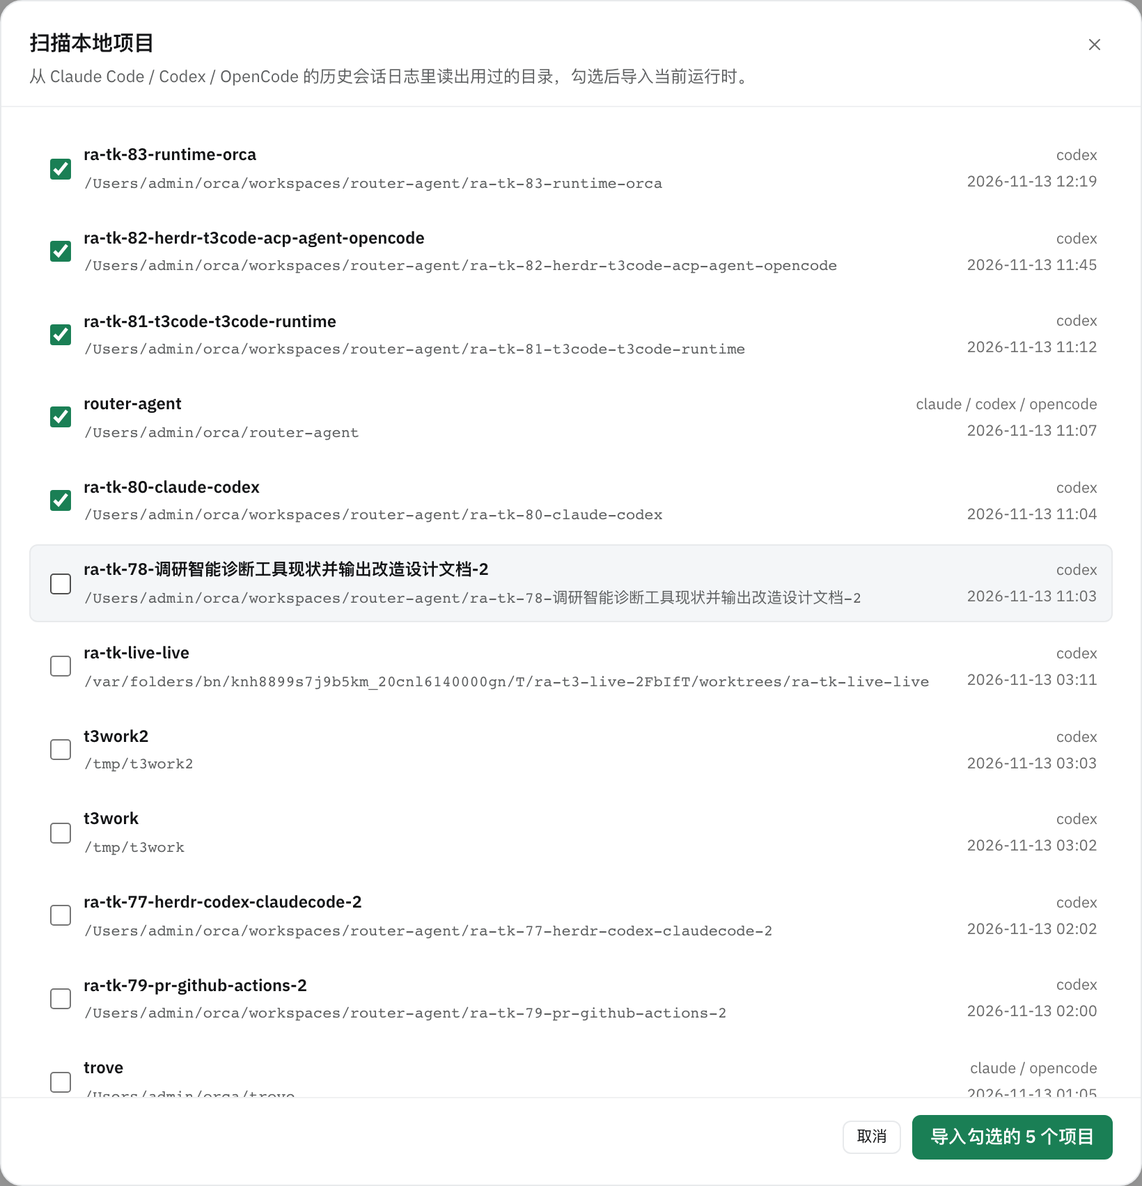
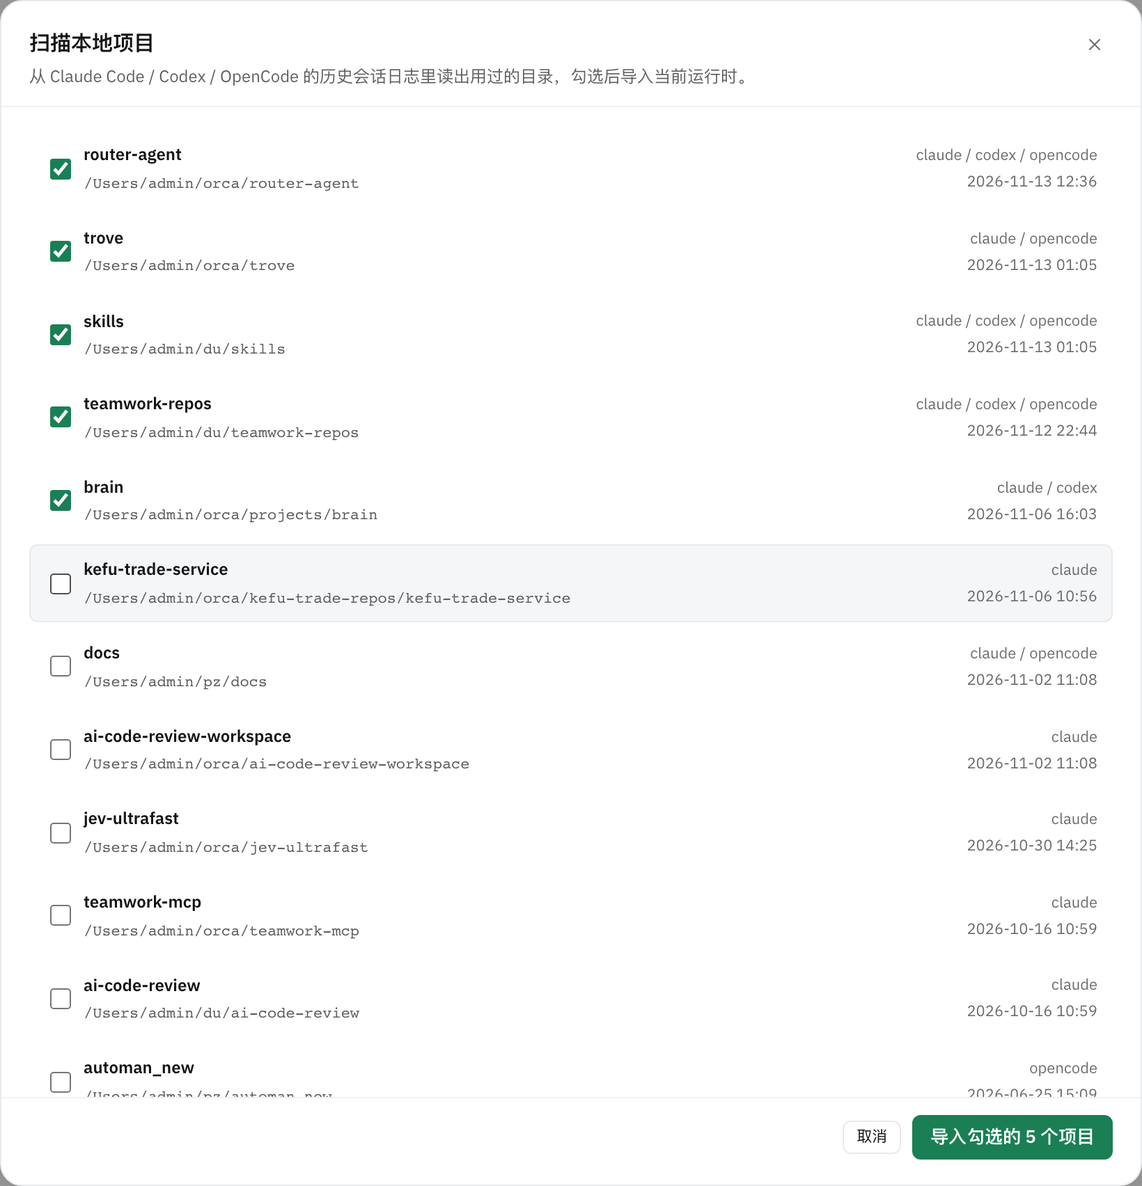
fix: 扫描本地项目收敛候选，worktree 归并到主仓库
- worktree（.git 是文件）归并到所属主仓库，worktree 自己不再出现在候选里
- 系统临时目录（/tmp、/var/folders 等）直接剔除
- 只保留 Git 仓库：面板只能加 Git 目录，非 Git 目录不进候选
- 同步删掉前端不再需要的「非 Git」标签与样式

diff --git a/tests/router/project-scan.test.ts b/tests/router/project-scan.test.ts
@@ -25,8 +25,20 @@ describe('扫描本地项目', () => {
     rmSync(root, { recursive: true, force: true })
   })
 
-  /** 造一个真实存在的项目目录。 */
+  /** 扫描参数：夹具建在系统临时目录里，所以默认关掉临时目录过滤。 */
+  function opts(overrides: Record<string, unknown> = {}): Record<string, unknown> {
+    return { claudeProjectsDir: claudeDir, codexHome, opencodeDataDir: opencodeDir, tempRoots: [], ...overrides }
+  }
+
+  /** 造一个真实存在的 Git 项目目录。 */
   function makeProject(name: string): string {
+    const path = join(root, 'workspaces', name)
+    mkdirSync(join(path, '.git'), { recursive: true })
+    return path
+  }
+
+  /** 造一个普通目录（不是 Git 仓库）。 */
+  function makePlainDir(name: string): string {
     const path = join(root, 'workspaces', name)
     mkdirSync(path, { recursive: true })
     return path
@@ -74,7 +86,7 @@ describe('扫描本地项目', () => {
     const alpha = makeProject('alpha')
     claudeSession(alpha, 'sess-1', '2026-01-02T00:00:00.000Z')
 
-    const projects = await scanLocalProjects({ claudeProjectsDir: claudeDir, codexHome, opencodeDataDir: opencodeDir })
+    const projects = await scanLocalProjects(opts() as never)
 
     expect(projects.map(item => item.path)).toEqual([alpha])
     expect(projects[0]?.sources).toEqual(['claude'])
@@ -85,7 +97,7 @@ describe('扫描本地项目', () => {
     const beta = makeProject('beta')
     codexSession(beta, '2026-01-03T00:00:00.000Z')
 
-    const projects = await scanLocalProjects({ claudeProjectsDir: claudeDir, codexHome, opencodeDataDir: opencodeDir })
+    const projects = await scanLocalProjects(opts() as never)
 
     expect(projects.map(item => item.path)).toEqual([beta])
     expect(projects[0]?.sources).toEqual(['codex'])
@@ -95,7 +107,7 @@ describe('扫描本地项目', () => {
     const gamma = makeProject('gamma')
     opencodeDb([[gamma, Date.parse('2026-01-05T00:00:00.000Z')]])
 
-    const projects = await scanLocalProjects({ claudeProjectsDir: claudeDir, codexHome, opencodeDataDir: opencodeDir })
+    const projects = await scanLocalProjects(opts() as never)
 
     expect(projects.map(item => item.path)).toEqual([gamma])
     expect(projects[0]?.sources).toEqual(['opencode'])
@@ -107,7 +119,7 @@ describe('扫描本地项目', () => {
     codexSession(delta, '2026-01-02T00:00:00.000Z')
     opencodeDb([[delta, Date.parse('2026-01-09T00:00:00.000Z')]])
 
-    const projects = await scanLocalProjects({ claudeProjectsDir: claudeDir, codexHome, opencodeDataDir: opencodeDir })
+    const projects = await scanLocalProjects(opts() as never)
 
     expect(projects).toHaveLength(1)
     expect(projects[0]?.sources).toEqual(['claude', 'codex', 'opencode'])
@@ -120,7 +132,7 @@ describe('扫描本地项目', () => {
     claudeSession(older, 'sess-old', '2026-01-01T00:00:00.000Z')
     claudeSession(newer, 'sess-new', '2026-01-05T00:00:00.000Z')
 
-    const projects = await scanLocalProjects({ claudeProjectsDir: claudeDir, codexHome, opencodeDataDir: opencodeDir })
+    const projects = await scanLocalProjects(opts() as never)
 
     expect(projects.map(item => item.name)).toEqual(['newer', 'older'])
   })
@@ -128,21 +140,59 @@ describe('扫描本地项目', () => {
   it('跳过目录已不存在的会话记录', async () => {
     claudeSession(join(root, 'workspaces', 'gone'), 'sess-gone', '2026-01-02T00:00:00.000Z')
 
-    const projects = await scanLocalProjects({ claudeProjectsDir: claudeDir, codexHome, opencodeDataDir: opencodeDir })
+    const projects = await scanLocalProjects(opts() as never)
 
     expect(projects).toEqual([])
   })
 
-  it('标记是否 Git 仓库', async () => {
-    const plain = makeProject('plain')
+  it('worktree 归并到主仓库，worktree 自己不出现在候选里', async () => {
     const repo = makeProject('repo')
-    mkdirSync(join(repo, '.git'), { recursive: true })
-    claudeSession(plain, 'sess-plain', '2026-01-02T00:00:00.000Z')
+    const worktree = join(root, 'worktrees', 'repo-wt')
+    mkdirSync(worktree, { recursive: true })
+    writeFileSync(join(worktree, '.git'), `gitdir: ${join(repo, '.git', 'worktrees', 'repo-wt')}\n`)
+    claudeSession(worktree, 'sess-wt', '2026-01-06T00:00:00.000Z')
+
+    const projects = await scanLocalProjects(opts() as never)
+
+    expect(projects.map(item => item.path)).toEqual([repo])
+  })
+
+  it('主仓库与它的 worktree 合并成一个候选，活跃时间取最新', async () => {
+    const repo = makeProject('repo2')
+    const worktree = join(root, 'worktrees', 'repo2-wt')
+    mkdirSync(worktree, { recursive: true })
+    writeFileSync(join(worktree, '.git'), `gitdir: ${join(repo, '.git', 'worktrees', 'repo2-wt')}\n`)
     claudeSession(repo, 'sess-repo', '2026-01-02T00:00:00.000Z')
+    claudeSession(worktree, 'sess-wt', '2026-01-08T00:00:00.000Z')
+
+    const projects = await scanLocalProjects(opts() as never)
+
+    expect(projects).toHaveLength(1)
+    expect(projects[0]?.path).toBe(repo)
+    expect(projects[0]?.lastActiveAt).toBe('2026-01-08T00:00:00.000Z')
+  })
+
+  it('系统临时目录不进候选', async () => {
+    // macOS 的 os.tmpdir() 落在 /var/folders 下，Unix 系的临时区是 /tmp，两个都要拦。
+    const macTemp = mkdtempSync(join(tmpdir(), 'ra-scan-mac-'))
+    const unixTemp = mkdtempSync(join('/tmp', 'ra-scan-unix-'))
+    claudeSession(macTemp, 'sess-mac-temp', '2026-01-04T00:00:00.000Z')
+    claudeSession(unixTemp, 'sess-unix-temp', '2026-01-04T00:00:00.000Z')
 
     const projects = await scanLocalProjects({ claudeProjectsDir: claudeDir, codexHome, opencodeDataDir: opencodeDir })
 
-    expect(projects.find(item => item.path === plain)?.isGit).toBe(false)
-    expect(projects.find(item => item.path === repo)?.isGit).toBe(true)
+    expect(projects.map(item => item.path)).not.toContain(macTemp)
+    expect(projects.map(item => item.path)).not.toContain(unixTemp)
+  })
+
+  it('非 Git 目录不进候选（面板用不了，也建不了 worktree）', async () => {
+    const plain = makePlainDir('plain')
+    const repo = makeProject('repo')
+    claudeSession(plain, 'sess-plain', '2026-01-02T00:00:00.000Z')
+    claudeSession(repo, 'sess-repo', '2026-01-02T00:00:00.000Z')
+
+    const projects = await scanLocalProjects(opts() as never)
+
+    expect(projects.map(item => item.path)).toEqual([repo])
   })
 })

diff --git a/src/router/project-scan.ts b/src/router/project-scan.ts
@@ -6,7 +6,7 @@
  * 直接在会话记录里带 cwd / directory。
  */
 import { DatabaseSync } from 'node:sqlite'
-import { existsSync, statSync, realpathSync } from 'node:fs'
+import { existsSync, readFileSync, statSync, realpathSync } from 'node:fs'
 import { open, readdir, stat } from 'node:fs/promises'
 import { homedir } from 'node:os'
 import { basename, join } from 'node:path'
@@ -15,7 +15,7 @@ import { basename, join } from 'node:path'
 export type ProjectScanSource = 'claude' | 'codex' | 'opencode'
 
 export interface ScannedProject {
-  /** 本地绝对路径。 */
+  /** 本地绝对路径（Git 仓库根目录）。 */
   path: string
   /** 目录名，作为默认项目名。 */
   name: string
@@ -23,8 +23,6 @@ export interface ScannedProject {
   sources: ProjectScanSource[]
   /** 最近一次活跃时间（ISO）。 */
   lastActiveAt: string
-  /** 目录里有没有 .git；没有的话不能创建 worktree。 */
-  isGit: boolean
 }
 
 export interface ProjectScanOptions {
@@ -34,6 +32,8 @@ export interface ProjectScanOptions {
   codexHome?: string
   /** OpenCode 数据目录，默认 ~/.local/share/opencode。 */
   opencodeDataDir?: string
+  /** 当作临时目录、丢掉候选的根目录；默认是系统临时区。 */
+  tempRoots?: string[]
 }
 
 /** API 层只依赖这一组能力，方便用假实现写测试。 */
@@ -56,24 +56,31 @@ interface Hit {
 
 /**
  * 扫描三个来源的会话日志，返回按最近活跃时间倒序的候选项目。
- * 目录已不存在的记录会被跳过，重复目录合并来源。
+ *
+ * 两条收敛规则：
+ * - worktree 不算项目，会话落在 worktree 上时归并到它所属的主仓库；
+ * - 系统临时目录（/tmp、/var/folders 等）直接丢弃。
  */
 export async function scanLocalProjects(opts: ProjectScanOptions = {}): Promise<ScannedProject[]> {
   const claudeDir = opts.claudeProjectsDir ?? join(homedir(), '.claude', 'projects')
   const codexHome = opts.codexHome ?? join(homedir(), '.codex')
   const opencodeDir = opts.opencodeDataDir ?? join(homedir(), '.local', 'share', 'opencode')
 
+  const tempRoots = opts.tempRoots ?? TEMP_ROOTS
+
   const merged = new Map<string, { path: string; at: number; sources: Set<ProjectScanSource> }>()
   const collect = (source: ProjectScanSource, hits: Hit[]): void => {
     for (const hit of hits) {
-      const key = canonicalPath(hit.path)
+      const root = resolveProjectRoot(hit.path)
+      if (isTemporaryPath(root, tempRoots)) continue
+      const key = canonicalPath(root)
       const current = merged.get(key)
       if (current) {
         current.at = Math.max(current.at, hit.at)
         current.sources.add(source)
         continue
       }
-      merged.set(key, { path: hit.path, at: hit.at, sources: new Set([source]) })
+      merged.set(key, { path: root, at: hit.at, sources: new Set([source]) })
     }
   }
 
@@ -82,7 +89,8 @@ export async function scanLocalProjects(opts: ProjectScanOptions = {}): Promise<
   collect('opencode', await scanOpenCode(opencodeDir))
 
   return [...merged.values()]
-    .filter(item => isDirectory(item.path))
+    // 只有 Git 仓库能创建 worktree，面板也只接受 Git 目录，其它目录直接不进候选。
+    .filter(item => isGitRepo(item.path))
     .sort((a, b) => b.at - a.at)
     .slice(0, MAX_PROJECTS)
     .map(item => ({
@@ -90,7 +98,6 @@ export async function scanLocalProjects(opts: ProjectScanOptions = {}): Promise<
       name: basename(item.path),
       sources: [...item.sources],
       lastActiveAt: new Date(item.at).toISOString(),
-      isGit: existsSync(join(item.path, '.git')),
     }))
 }
 
@@ -268,6 +275,57 @@ function parseJson(text: string): Record<string, any> | null {
   } catch {
     return null
   }
+}
+
+/** 临时目录：系统临时区里的目录不是项目。 */
+const TEMP_ROOTS = ['/tmp', '/private/tmp', '/var/folders', '/private/var/folders']
+
+/**
+ * 归并项目根目录：`.git` 是文件说明这是 git worktree（`.git` 里写着主仓库的
+ * `.git/worktrees/<名字>`），归并到主仓库；worktree 本身不是项目，不单独出现。
+ */
+function resolveProjectRoot(path: string): string {
+  const dotGit = join(path, '.git')
+  let info: ReturnType<typeof statSync>
+  try {
+    info = statSync(dotGit)
+  } catch {
+    return path
+  }
+  if (info.isDirectory() || !info.isFile()) return path
+  const gitdir = readGitdir(dotGit)
+  return (gitdir ? mainRepoOf(gitdir) : null) ?? path
+}
+
+/** 读 `.git` 文件里的 `gitdir:` 指向。 */
+function readGitdir(dotGit: string): string {
+  try {
+    const match = /^gitdir:\s*(.+)$/m.exec(readFileSync(dotGit, 'utf8'))
+    return match ? match[1]!.trim() : ''
+  } catch {
+    return ''
+  }
+}
+
+/** 从 `<主仓库>/.git/worktrees/<名字>` 推出主仓库路径。 */
+function mainRepoOf(gitdir: string): string | null {
+  const match = /^(.*)\/\.git\/worktrees\/[^/]+$/.exec(gitdir)
+  return match ? match[1]! : null
+}
+
+/** 是不是 git 仓库：`.git` 是目录才算（worktree 的 `.git` 是文件）。 */
+function isGitRepo(path: string): boolean {
+  try {
+    return statSync(join(path, '.git')).isDirectory()
+  } catch {
+    return false
+  }
+}
+
+/** 系统临时目录下的路径直接丢弃。 */
+function isTemporaryPath(path: string, roots: string[]): boolean {
+  const value = path.replace(/\/+$/, '')
+  return roots.some(root => value === root || value.startsWith(`${root.replace(/\/+$/, '')}/`))
 }
 
 /** Claude Code 的项目目录名：cwd 里非字母数字字符全换成 '-'。 */

diff --git a/src/web/app.css b/src/web/app.css
@@ -1389,11 +1389,9 @@ input[type="number"] { -moz-appearance: textfield; appearance: textfield; }
 .scan-item:hover { background: var(--raised); border-color: var(--border); }
 .scan-item input { width: 15px; height: 15px; accent-color: var(--accent); cursor: pointer; }
 .scan-item-main { display: flex; flex-direction: column; gap: 2px; min-width: 0; }
-.scan-item-main strong { display: flex; align-items: center; gap: 6px; font-weight: 600; color: var(--text); }
+.scan-item-main strong { font-weight: 600; color: var(--text); }
 .scan-item-main code { word-break: break-all; color: var(--muted); font-size: 11px; }
 .scan-item-meta { display: flex; flex-direction: column; align-items: flex-end; gap: 2px; color: var(--faint); font-size: 11px; }
-.scan-tag { padding: 1px 6px; border-radius: 999px; font-style: normal; font-size: 10px; font-weight: 500; }
-.scan-tag.warn { background: var(--warn-soft); color: var(--warn); }
 
 /* 工单页 · 清理工作区弹窗 */
 .modal-wide { width: min(820px, calc(100vw - 32px)); }

diff --git a/src/web/client/project-scan.ts b/src/web/client/project-scan.ts
@@ -5,19 +5,17 @@
  */
 import type { ProjectDraft } from './config-shared.js'
 
-/** 服务端扫出来的候选项目。 */
+/** 服务端扫出来的候选项目（都是 Git 仓库）。 */
 export interface ScanCandidate {
   path: string
   name: string
   sources: string[]
   lastActiveAt: string
-  isGit: boolean
 }
 
-/** 默认勾选最近活跃的 N 个 Git 项目；非 Git 目录不能创建 worktree，不进默认勾选。 */
+/** 默认勾选最近活跃的 N 个项目。 */
 export function defaultSelectedPaths(candidates: ScanCandidate[], limit = 5): string[] {
   return [...candidates]
-    .filter(candidate => candidate.isGit)
     .sort((a, b) => b.lastActiveAt.localeCompare(a.lastActiveAt))
     .slice(0, limit)
     .map(candidate => candidate.path)

diff --git a/src/web/client/app.tsx b/src/web/client/app.tsx
@@ -2832,10 +2832,7 @@ function ProjectsEditor({ runtimeId, projects, error, onChange }: {
                           : current))}
                       />
                       <span className="scan-item-main">
-                        <strong>
-                          {candidate.name}
-                          {!candidate.isGit && <em className="scan-tag warn">非 Git</em>}
-                        </strong>
+                        <strong>{candidate.name}</strong>
                         <code>{candidate.path}</code>
                       </span>
                       <span className="scan-item-meta">

diff --git a/tests/web/project-scan.test.ts b/tests/web/project-scan.test.ts
@@ -7,7 +7,6 @@ function candidate(overrides: Partial<ScanCandidate> = {}): ScanCandidate {
     name: 'project',
     sources: ['claude'],
     lastActiveAt: '2026-01-01T00:00:00.000Z',
-    isGit: true,
     ...overrides,
   }
 }
@@ -26,12 +25,6 @@ describe('扫描本地项目', () => {
       '/Users/me/p4',
       '/Users/me/p3',
     ])
-  })
-
-  it('非 Git 目录不默认勾选', () => {
-    const candidates = [candidate({ path: '/Users/me/plain', isGit: false })]
-
-    expect(defaultSelectedPaths(candidates)).toEqual([])
   })
 
   it('Git 项目不足 5 个时全部勾选', () => {

diff --git a/docs/OPERATIONS.md b/docs/OPERATIONS.md
@@ -39,7 +39,7 @@ Router 不做对话，只在必要时说话：
 - **初始化**：只放启动必需的五件事——LLM Provider、运行时、项目、渠道接入、监控群，顶部有完成度清单；LLM Provider 的 Base URL / 模型 / API Key 三项必填（密钥只写入 `config.yaml`，保存后不回显），可选 OpenAI / Anthropic 两种接口协议，并支持从 Claude Code、CCSwitch、Pi、OpenCode、Magpie 的本地 Provider 配置一键导入；渠道那一步走渠道注册表：先选渠道（当前内置飞书），再填它的接入项（应用凭据 / 机器人与授权 / 群与绑定 + 接收私聊），App Secret 与授权也直接在本页完成（固定 `~/.router-agent-lark` profile）。新增渠道只需补一份描述与表单，初始化页不用改。逐项说明见 [README · 快速开始](../README.md#快速开始)；运行时的卡片检测与安装引导见 [RUNTIME.md](RUNTIME.md)。
 - **工单**：按阶段分组 + 计数、关键字搜索（标题 / 工单号 / 仓库 / PR）、自动刷新开关与手动刷新；详情页有阶段、派工、PR、授权范围、上报时间线（含完整回复与 `humanAction`）、投递记录，可直接投递 follow-up 或停止工单。**人工停止工单会立即回收对应的 workspace**（先停 worker，再删 worktree）；而闲置超时、PR 合并等**自动关单只停 worker，workspace 会保留一段时间（默认 24 小时）后由定时任务回收**，也可以随时在「清理工作区」里手动回收。页头还有「清理工作区」入口：按 Worker 运行时分组列出仍在磁盘上的工单工作区，可勾选多个工单批量清理。清理动作按工单各自的运行时执行——Orca 关闭 worktree 并删除目录，Claude Code 删除 `claude agents` 视图与 worktree 目录，ACP 直接删除 worktree 目录；在办工单与有未提交改动的目录会被跳过，并在结果里说明原因。
 - **日志**：直接看 `~/.router-agent/logs/router-agent.log`，默认 2 秒增量拉取（只读游标之后的新字节，不重复读整个文件），可开「实时刷新」；按 INFO / WARN / ERROR 过滤、按消息或字段搜索、复制当前结果；停在底部时自动跟随新日志，往上翻后不再打断，点「最新」回到底部。文件不存在或还没写入时给出空状态提示。
-- **配置**：按「LLM Provider / 运行时配置 / 渠道配置 / 项目配置 / 消息准入 / 其他设置」六层分组，每层再拆成可折叠的配置块。分组名与初始化页用词一致，按「先能跑起来、再看细节」排列：**LLM Provider**（模型接入 / 研判预算 / 人格 / 规范文件 / 会话复用）、**运行时配置**（Worker 运行时卡片 + 并发上限）、**渠道配置**（先选渠道，当前内置飞书，再配该渠道自己的「应用凭据 / 机器人与授权 / 接收范围 / 群与绑定 / 消息处理」，低频的「高级」项默认折叠）、**项目配置**（项目清单）、**消息准入**（接单方式 / 谁能叫醒机器人，立即生效）、**其他设置**（进展同步 / 闲置治理 / 工作区回收 / 服务与门禁）。渠道不是写死的分支：面板从 `GET /api/channels` 拿内核已注册的通道，按 id 与前端的渠道描述（`src/web/client/channels.ts`）合并，新增渠道只要再加一份描述与表单。每个配置块标注生效方式（立即生效 / 重启生效 / 部分立即生效），改动逐项标脏，保存前做前端 + 后端双重校验，保存后写回 `config.yaml`。「Worker 运行时」是与初始化页相同的卡片平铺组件（`orca` / `claude-code` / `codex-app` / `acp` / `acp-*`，卡片标题是首字母大写的运行时名 `Orca` / `Claude Code` / `Codex App`），已有原生运行时替代品的 `acp-claude` / `acp-codex` 不再出现在可选列表里（当前正选中的仍保留，老配置继续可用），可检测安装状态、分别跳转官方文档安装 CLI 或由 ra 安装 ACP 扩展，并做 ACP 握手试启动；项目清单按运行时隔离，切换运行时后项目清单会切换到该运行时自己的一套（清单里的 `repo` 统一是本地仓库绝对路径，Orca 侧由适配器翻译成 `path:` 选择器并在派工前自动登记成 Orca 项目）；「扫描本地项目」读本机 Claude Code / Codex / OpenCode 的会话日志列出候选目录（默认勾选最近活跃的 5 个 Git 项目），「添加本地项目」支持系统目录选择并自动识别 Git / 分支，「添加 Git 项目」支持填写 ssh / http(s) 地址后自动 clone 并登记。群绑定的项目只能从当前清单里选，分支自动跟随项目的默认分支，不能单独自定义。左侧导航随滚动高亮当前分组；顶部搜索框可按名称 / 路径筛配置项。
+- **配置**：按「LLM Provider / 运行时配置 / 渠道配置 / 项目配置 / 消息准入 / 其他设置」六层分组，每层再拆成可折叠的配置块。分组名与初始化页用词一致，按「先能跑起来、再看细节」排列：**LLM Provider**（模型接入 / 研判预算 / 人格 / 规范文件 / 会话复用）、**运行时配置**（Worker 运行时卡片 + 并发上限）、**渠道配置**（先选渠道，当前内置飞书，再配该渠道自己的「应用凭据 / 机器人与授权 / 接收范围 / 群与绑定 / 消息处理」，低频的「高级」项默认折叠）、**项目配置**（项目清单）、**消息准入**（接单方式 / 谁能叫醒机器人，立即生效）、**其他设置**（进展同步 / 闲置治理 / 工作区回收 / 服务与门禁）。渠道不是写死的分支：面板从 `GET /api/channels` 拿内核已注册的通道，按 id 与前端的渠道描述（`src/web/client/channels.ts`）合并，新增渠道只要再加一份描述与表单。每个配置块标注生效方式（立即生效 / 重启生效 / 部分立即生效），改动逐项标脏，保存前做前端 + 后端双重校验，保存后写回 `config.yaml`。「Worker 运行时」是与初始化页相同的卡片平铺组件（`orca` / `claude-code` / `codex-app` / `acp` / `acp-*`，卡片标题是首字母大写的运行时名 `Orca` / `Claude Code` / `Codex App`），已有原生运行时替代品的 `acp-claude` / `acp-codex` 不再出现在可选列表里（当前正选中的仍保留，老配置继续可用），可检测安装状态、分别跳转官方文档安装 CLI 或由 ra 安装 ACP 扩展，并做 ACP 握手试启动；项目清单按运行时隔离，切换运行时后项目清单会切换到该运行时自己的一套（清单里的 `repo` 统一是本地仓库绝对路径，Orca 侧由适配器翻译成 `path:` 选择器并在派工前自动登记成 Orca 项目）；「扫描本地项目」读本机 Claude Code / Codex / OpenCode 的会话日志列出候选目录（worktree 归并到主仓库、临时目录与非 Git 目录剔除，默认勾选最近活跃的 5 个），「添加本地项目」支持系统目录选择并自动识别 Git / 分支，「添加 Git 项目」支持填写 ssh / http(s) 地址后自动 clone 并登记。群绑定的项目只能从当前清单里选，分支自动跟随项目的默认分支，不能单独自定义。左侧导航随滚动高亮当前分组；顶部搜索框可按名称 / 路径筛配置项。
 - **来源**：服务状态、监控群、接收范围概览。
 
 侧栏品牌行末尾有全局主题切换图标：**跟随系统 / 亮色 / 暗色** 三态循环，默认跟随系统；选择只存在浏览器本地，不写入 `config.yaml`，所有页签即时生效。

diff --git a/docs/CONFIGURATION.md b/docs/CONFIGURATION.md
@@ -294,7 +294,12 @@ Web 面板的「项目配置」提供三种添加方式：
 | 添加本地项目 | 弹出系统目录选择框；选中后自动识别 Git 根目录、当前分支与 origin。不是 Git 仓库时直接提示，不能用于创建 worktree |
 | 添加 Git 项目 | 填写 ssh / http(s) 地址，自动 clone 到 `<RA_HOME>/repos/<项目名>`（默认 `~/.router-agent/repos`） |
 
-扫描只读会话日志，不写任何文件；目录已不存在的会话记录会被跳过，非 Git 目录会被标出来且不默认勾选。
+扫描只读会话日志，不写任何文件。候选会收敛成「能直接当项目用的目录」：
+
+- **worktree 归并到主仓库**：`.git` 是文件说明这是 git worktree，扫描时归并到它所属的主仓库（活跃时间照算），worktree 自己不会出现在候选里；
+- **临时目录丢掉**：`/tmp`、`/var/folders` 等系统临时区里的目录直接剔除；
+- **只留 Git 仓库**：面板只能加 Git 目录（worktree 需要它），非 Git 目录不进候选；
+- 目录已不存在的会话记录会被跳过。
 
 登记到 Orca 是自动的：Orca 运行时新增项目时立刻 `orca repo add`，派工时再兜底登记一次，所以清单里只写路径就够了。想看 Orca 侧已登记的仓库：
 
